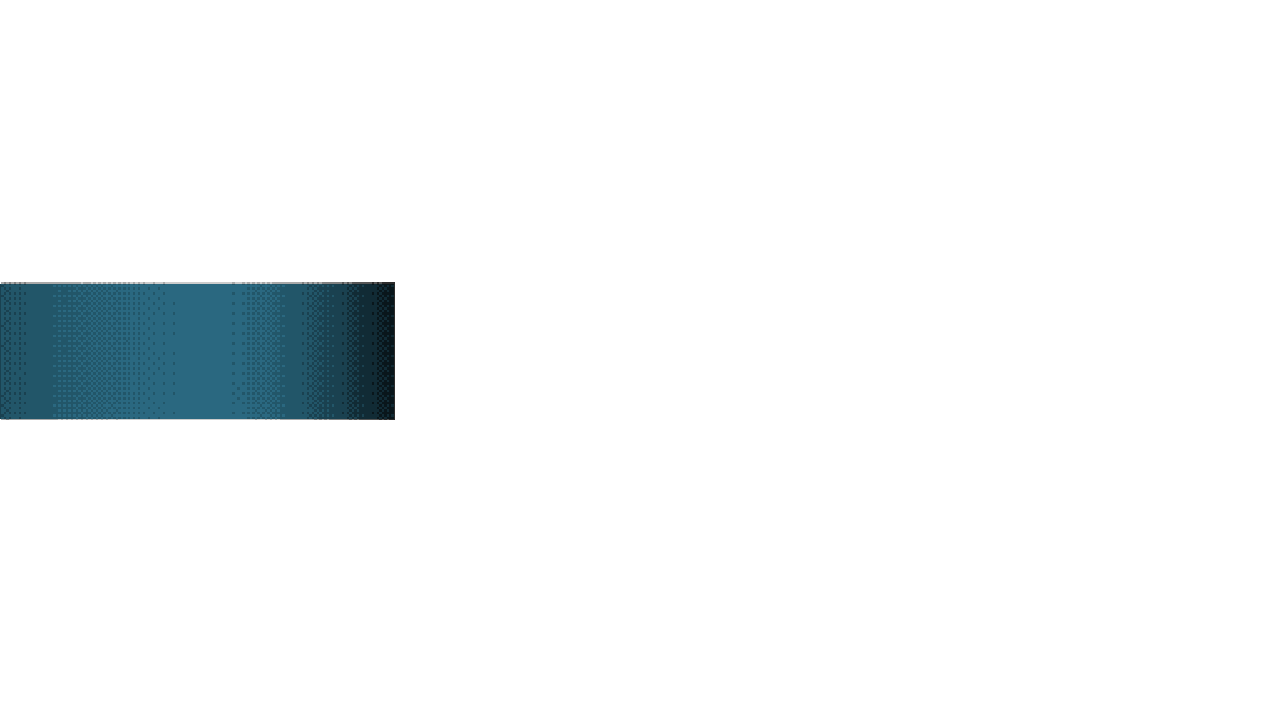
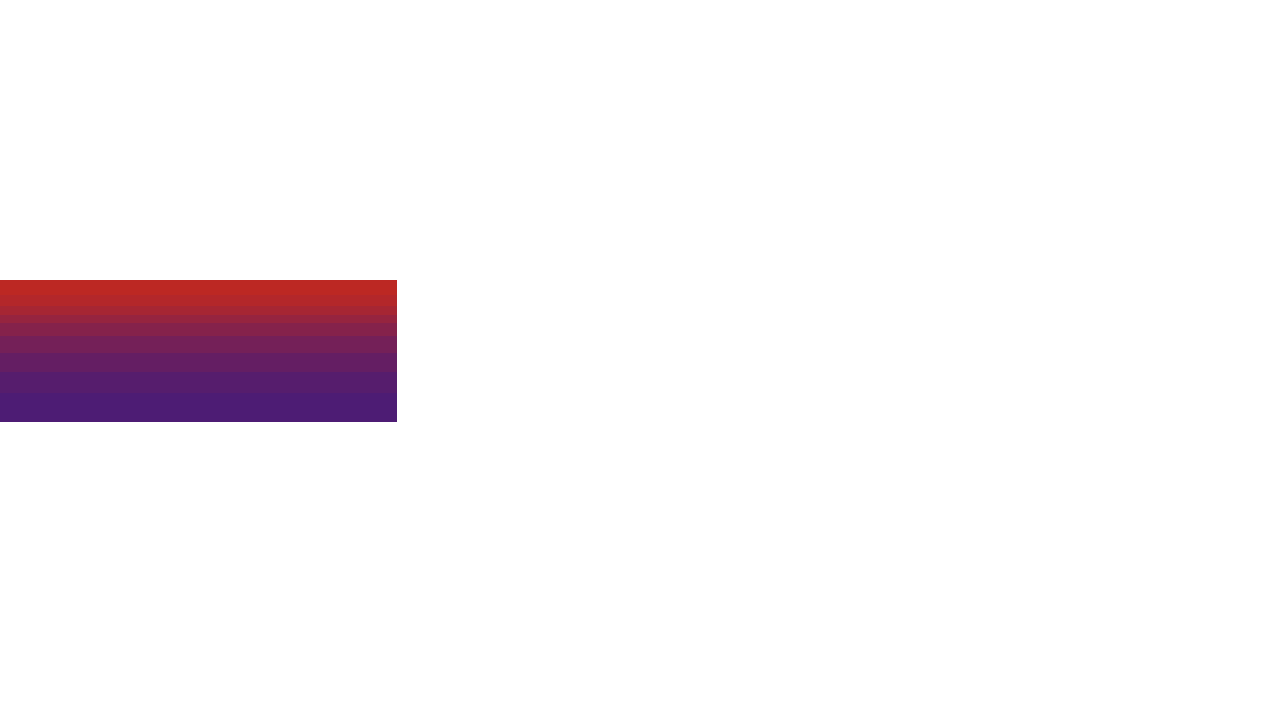
DS & 3DS layout reskins

Changed region(s): [[0.0, 0.3667, 0.3125, 0.6111]]

diff --git a/graphics/3ds.html b/graphics/3ds.html
@@ -12,7 +12,7 @@
 	<link rel="import" href="elements/gdq-sponsors/gdq-sponsors.html">
 	<style is="custom-style">
 		gdq-nameplate {
-			left: 417px;
+			left: 412px;
 			bottom: 70px;
 			--gdq-nameplate-width: 377px;
 		}
@@ -20,16 +20,15 @@
 		gdq-runinfo {
 			right: 0;
 			bottom: 8px;
-			width: 443px;
+			width: 451px;
 			height: 110px;
 			padding-top: 5px;
-			padding-right: 7px;
 			--gdq-runinfo-misc-height: 28px;
 
 		}
 
 		gdq-timer {
-			left: 377px;
+			left: 373px;
 			bottom: 18px;
 			height: 57px;
 			width: 453px;

diff --git a/graphics/ds.html b/graphics/ds.html
@@ -21,7 +21,7 @@
 		gdq-runinfo {
 			left: 0;
 			top: 287px;
-			width: 398px;
+			width: 397px;
 			height: 122px;
 			--gdq-runinfo-misc-height: 33px;
 		}
@@ -29,9 +29,10 @@
 		gdq-timer {
 			left: 0;
 			bottom: 0;
-			height: 52px;
-			width: 398px;
+			height: 47px;
+			width: 397px;
 			font-size: 42px;
+			padding-bottom: 6px;
 			border-bottom: 1px solid #000000;
 		}
 	</style>
